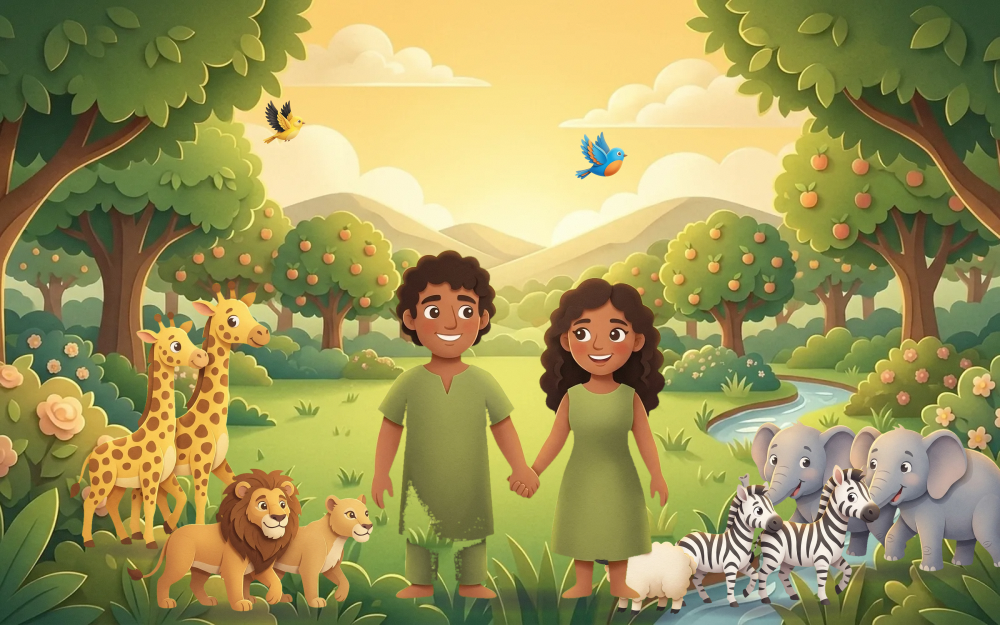
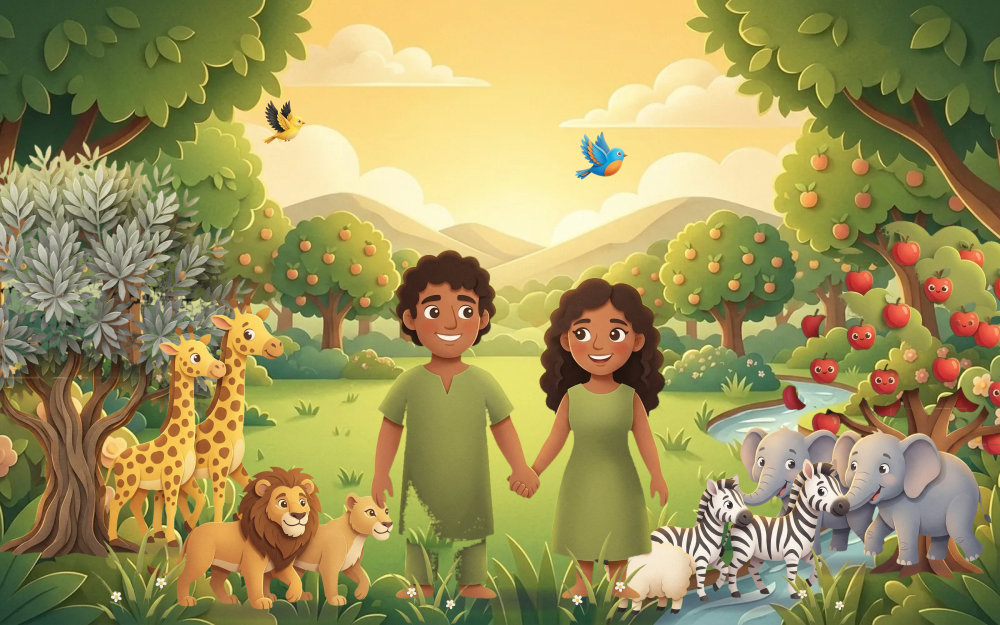
Garden: swaying trees and grass, animals that wander
Two trees with swaying canopies frame the garden and four grass tufts sway
in front. Each animal group strolls a little way on a-wander, turns to
face the way it walks, and strolls back, with a walk-bob for the steps;
both rest at the drawn position under Calm mode.

diff --git a/src/scenes/creation.tsx b/src/scenes/creation.tsx
@@ -22,6 +22,7 @@ import redbirdDown from "../assets/scenes/david/shepherd/redbird-down.webp";
 import goldfinchUp from "../assets/scenes/david/shepherd/goldfinch-up.webp";
 import goldfinchDown from "../assets/scenes/david/shepherd/goldfinch-down.webp";
 import lamb from "../assets/scenes/david/shepherd/lamb.webp";
+import shepherdGrass from "../assets/scenes/david/shepherd/grass-tuft.webp";
 import lightsLayers from "../assets/scenes/creation/lights/layers.json";
 import lightsBg from "../assets/scenes/creation/lights/bg.webp";
 import sunImg from "../assets/scenes/creation/lights/sun.webp";
@@ -238,30 +239,53 @@ export function BirdsAndFish() {
 export function AnimalsAndPeople({ found }: SceneArtProps) {
   const L = peopleLayers.cutouts;
   const T = twoLayers.cutouts;
-  const animal = (src: string, key: keyof typeof T, x: number, y: number, s: number, cls: string, delay: number, flip = false) => (
+  const F = landLayers.cutouts;
+  const olive = D.tree;
+  const fruit = F["fruit-tree"];
+  /** Walks a little way and back; the shadow stays put, the animal paces over it. */
+  const roam = (src: string, w: number, h: number, x: number, y: number, s: number, cls: string, delay: number, flip = false) => (
     <>
-      <SoftShadow x={x} y={y} rx={T[key].w * s * 0.42} ry={12} opacity={0.4} />
-      <Layer src={src} w={T[key].w} h={T[key].h} x={x} y={y} scale={s} flip={flip} className={cls} delay={delay} />
+      <SoftShadow x={x} y={y} rx={w * s * 0.42} ry={12} opacity={0.35} />
+      <g transform={`translate(${x} ${y}) scale(${flip ? -s : s} ${s})`}>
+        <g className={cls} style={{ animationDelay: `${delay}s` }}>
+          <g className="a-walk-bob" style={{ animationDelay: `${delay * 0.37}s` }}>
+            <image href={src} x={-w / 2} y={-h} width={w} height={h} />
+          </g>
+        </g>
+      </g>
     </>
+  );
+  const tuft = (x: number, y: number, s: number, delay: number, flip = false) => (
+    <Layer src={shepherdGrass} w={D["grass-tuft"].w} h={D["grass-tuft"].h} x={x} y={y} scale={s} flip={flip} className="a-sway" delay={delay} />
   );
   return (
     <>
       <Backdrop src={peopleBg} />
+      {/* trees at the edges, canopies swaying in the wind */}
+      <Layer src={oliveTrunk} w={olive.w} h={olive.h} x={70} y={560} scale={0.6} />
+      <Part src={oliveCanopy} tw={olive.tail.w} th={olive.tail.h} ox={olive.tail.ox} oy={olive.tail.oy} w={olive.w} h={olive.h} x={70} y={560} scale={0.6} className="a-sway-slow" delay={-1} />
+      <Layer src={landTrunk} w={fruit.w} h={fruit.h} x={930} y={580} scale={0.4} flip />
+      <Part src={landCanopy} tw={fruit.tail.w} th={fruit.tail.h} ox={fruit.tail.ox} oy={fruit.tail.oy} w={fruit.w} h={fruit.h} x={930} y={580} scale={0.4} flip className="a-sway-slow" delay={-4} />
       <Bird kind="blue" x={620} y={150} size={0.22} motion="a-flutter" delay={-3} />
       <Bird kind="gold" x={300} y={120} size={0.2} motion="a-fly" delay={-9} />
-      {animal(giraffes, "giraffes", 170, 550, 0.3, "a-breathe-slow", -1)}
-      {animal(elephants, "elephants", 880, 572, 0.28, "a-breathe-slow", -2, true)}
-      {animal(zebras, "zebras", 770, 608, 0.24, "a-breathe", -3)}
-      {animal(lionsPair, "lions", 250, 612, 0.24, "a-breathe-slow", -4)}
-      <SoftShadow x={640} y={616} rx={50} ry={9} opacity={0.4} />
-      <Layer src={lamb} w={D.lamb.w} h={D.lamb.h} x={640} y={616} scale={0.26} className="a-breathe" delay={-1.5} />
+      {/* the animals wander the meadow, far to near */}
+      {roam(giraffes, T.giraffes.w, T.giraffes.h, 190, 548, 0.28, "a-wander-slow", -6)}
+      {roam(elephants, T.elephants.w, T.elephants.h, 860, 566, 0.26, "a-wander-slow", -14, true)}
+      {roam(zebras, T.zebras.w, T.zebras.h, 740, 602, 0.24, "a-wander", -3)}
+      {roam(lionsPair, T.lions.w, T.lions.h, 270, 610, 0.24, "a-wander", -10)}
+      {roam(lamb, D.lamb.w, D.lamb.h, 640, 616, 0.26, "a-wander", -1)}
       <SoftShadow x={520} y={600} rx={110} ry={14} opacity={0.4} />
       <Layer src={adamEve} w={L["adam-eve"].w} h={L["adam-eve"].h} x={520} y={600} scale={0.46} className="a-breathe">
         <Eyelids {...EYES.adamEve} w={L["adam-eve"].w} h={L["adam-eve"].h} />
       </Layer>
-      {found.includes("lion") && <Sparkle x={340} y={540} s={1.6} />}
-      {found.includes("giraffe") && <Sparkle x={200} y={380} s={1.6} delay={0.2} />}
-      {found.includes("people") && <Sparkle x={500} y={300} s={2} delay={0.4} />}
+      {/* foreground grass, swaying */}
+      {tuft(140, 624, 0.46, 0)}
+      {tuft(430, 628, 0.4, -1.3, true)}
+      {tuft(600, 626, 0.44, -2.2)}
+      {tuft(820, 628, 0.38, -0.7, true)}
+      {found.includes("lion") && <Sparkle x={270} y={540} s={1.6} />}
+      {found.includes("giraffe") && <Sparkle x={190} y={380} s={1.6} delay={0.2} />}
+      {found.includes("people") && <Sparkle x={520} y={300} s={2} delay={0.4} />}
       <Grain opacity={0.05} />
     </>
   );

diff --git a/src/styles/motion.css b/src/styles/motion.css
@@ -652,6 +652,50 @@ svg [class*=" a-"] {
 }
 
 /*
+ * An animal wandering the garden: it strolls a little way, turns to face the
+ * way it walks, and strolls back. The inner walk-bob sells the steps. Both
+ * rest at the drawn position, so Calm mode shows the animal standing.
+ */
+@keyframes wander {
+  0% {
+    transform: translateX(0) scaleX(1);
+  }
+  42% {
+    transform: translateX(150px) scaleX(1);
+  }
+  50% {
+    transform: translateX(150px) scaleX(-1);
+  }
+  92% {
+    transform: translateX(0) scaleX(-1);
+  }
+  100% {
+    transform: translateX(0) scaleX(1);
+  }
+}
+.a-wander {
+  animation: wander 18s ease-in-out infinite;
+  transform-origin: 50% 50%;
+}
+.a-wander-slow {
+  animation: wander 26s ease-in-out infinite;
+  transform-origin: 50% 50%;
+}
+@keyframes walk-bob {
+  0%,
+  100% {
+    transform: translateY(0) rotate(-1.2deg);
+  }
+  50% {
+    transform: translateY(-5px) rotate(1.2deg);
+  }
+}
+.a-walk-bob {
+  animation: walk-bob 0.7s ease-in-out infinite;
+  transform-origin: 50% 100%;
+}
+
+/*
  * Eyelids. Drawn with opacity="0" so eyes rest open; the lid only appears for
  * a moment near the end of each cycle. Calm mode drops the animation and the
  * attribute value keeps the eyes open.
